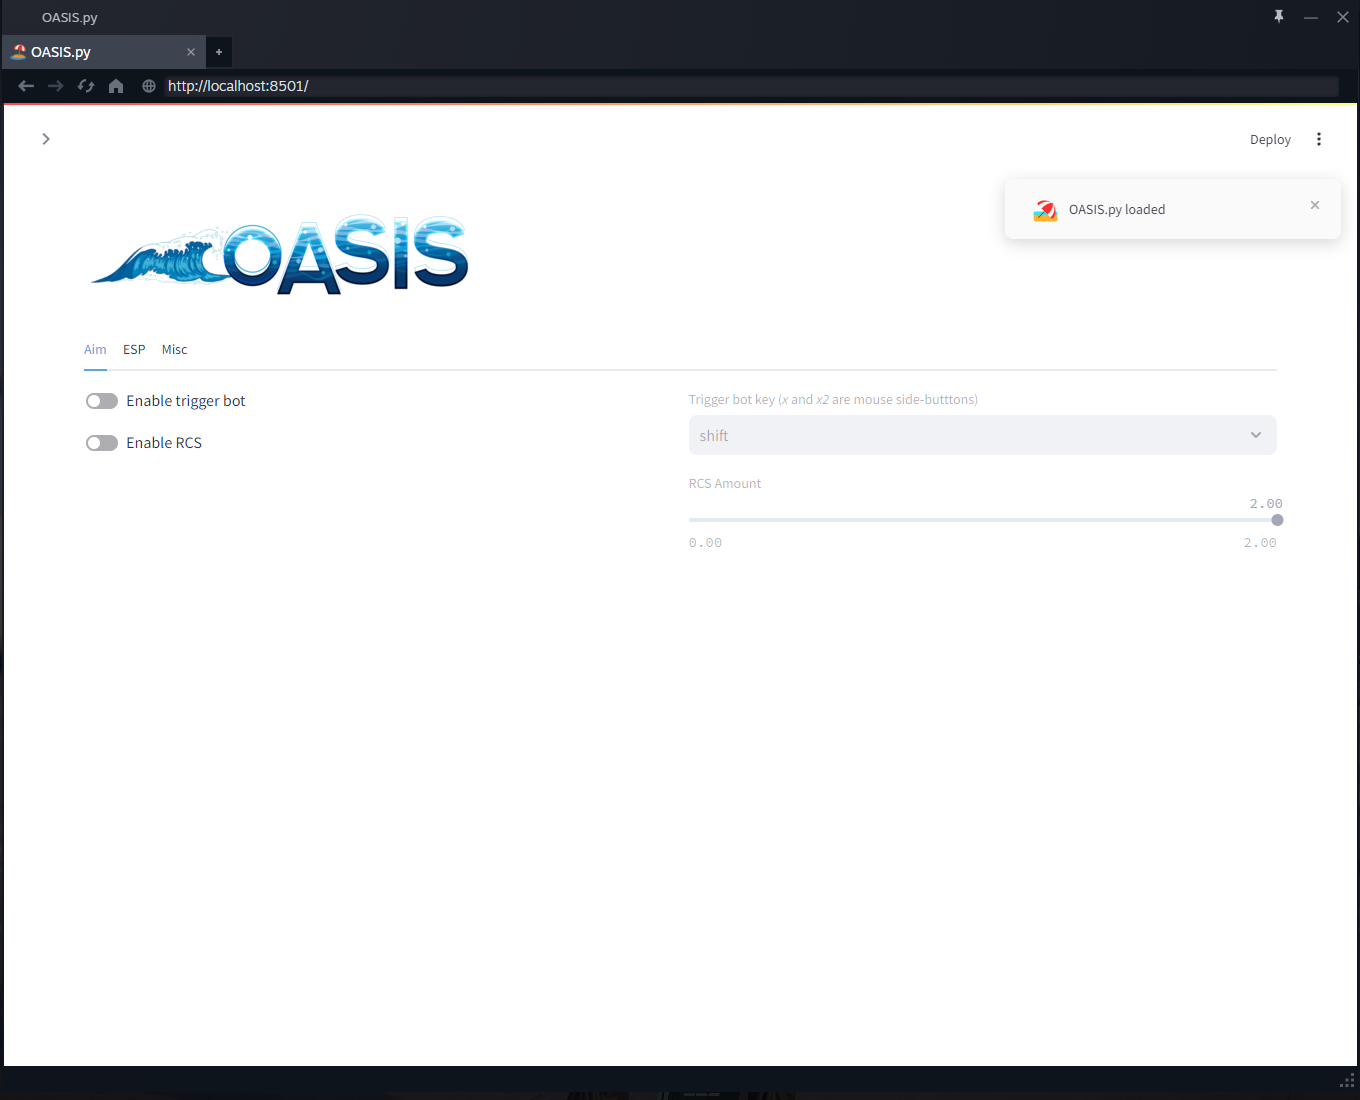
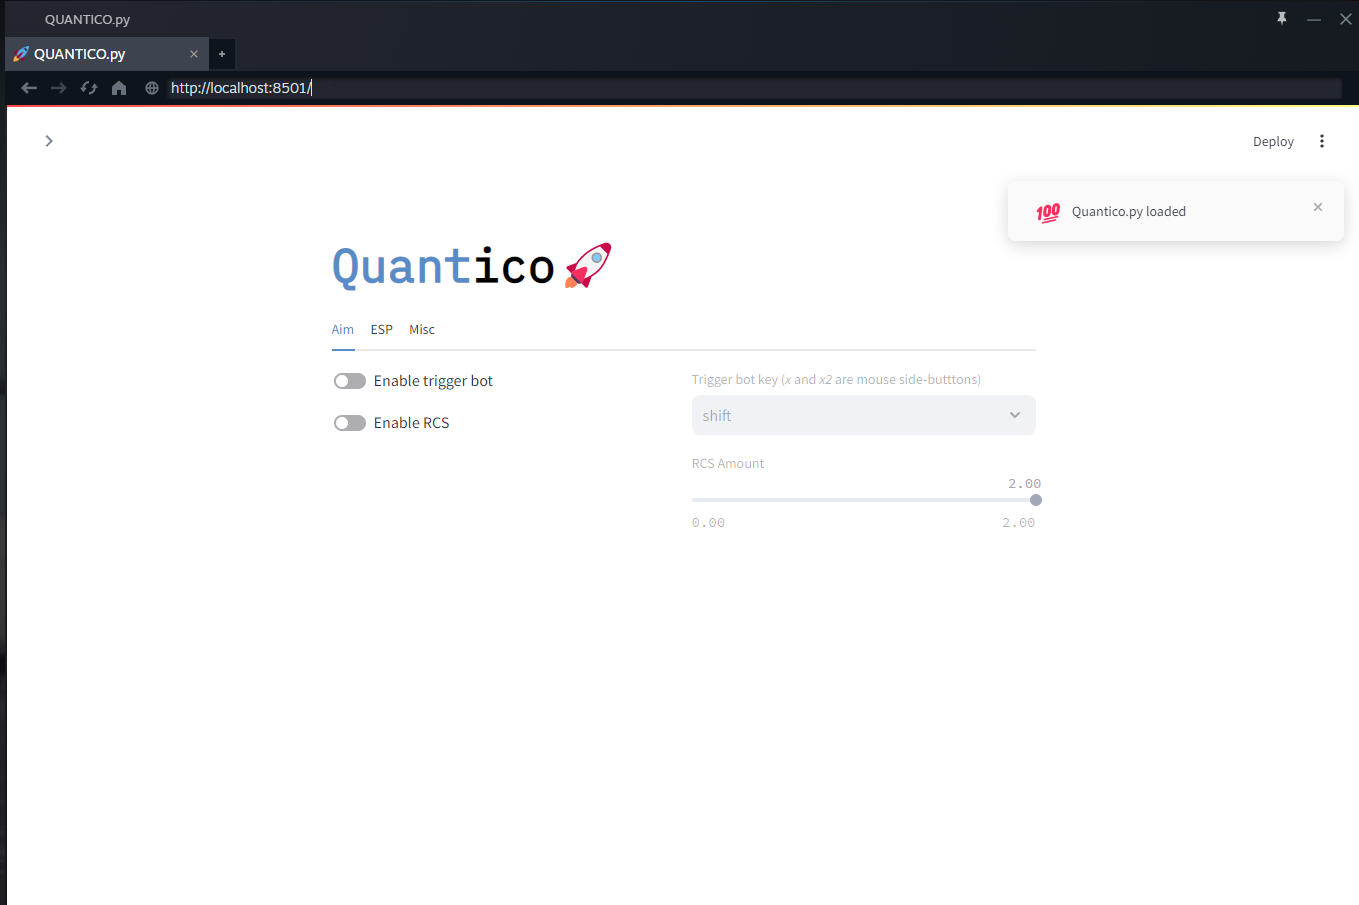
Updated assests

diff --git a/assets/style.css b/assets/style.css
@@ -1,11 +1,9 @@
-@import url("https://fonts.googleapis.com/css2?family=Nabla&display=swap"); 
+@import url("https://fonts.googleapis.com/css2?family=IBM+Plex+Mono"); 
 
 .title-font {
-    font-family: "Nabla", system-ui;
+    font-family: "IBM Plex Mono", monospace;
     font-size: calc(1.4rem + 1.8vw);
-    font-weight: 400;
-    font-variation-settings:
-    "EDPT" 85,
-    "EHLT" 6;
-    color: #091747;
+    font-weight: 600;
+    font-style: normal;
+    color: #588cc7;
 }
